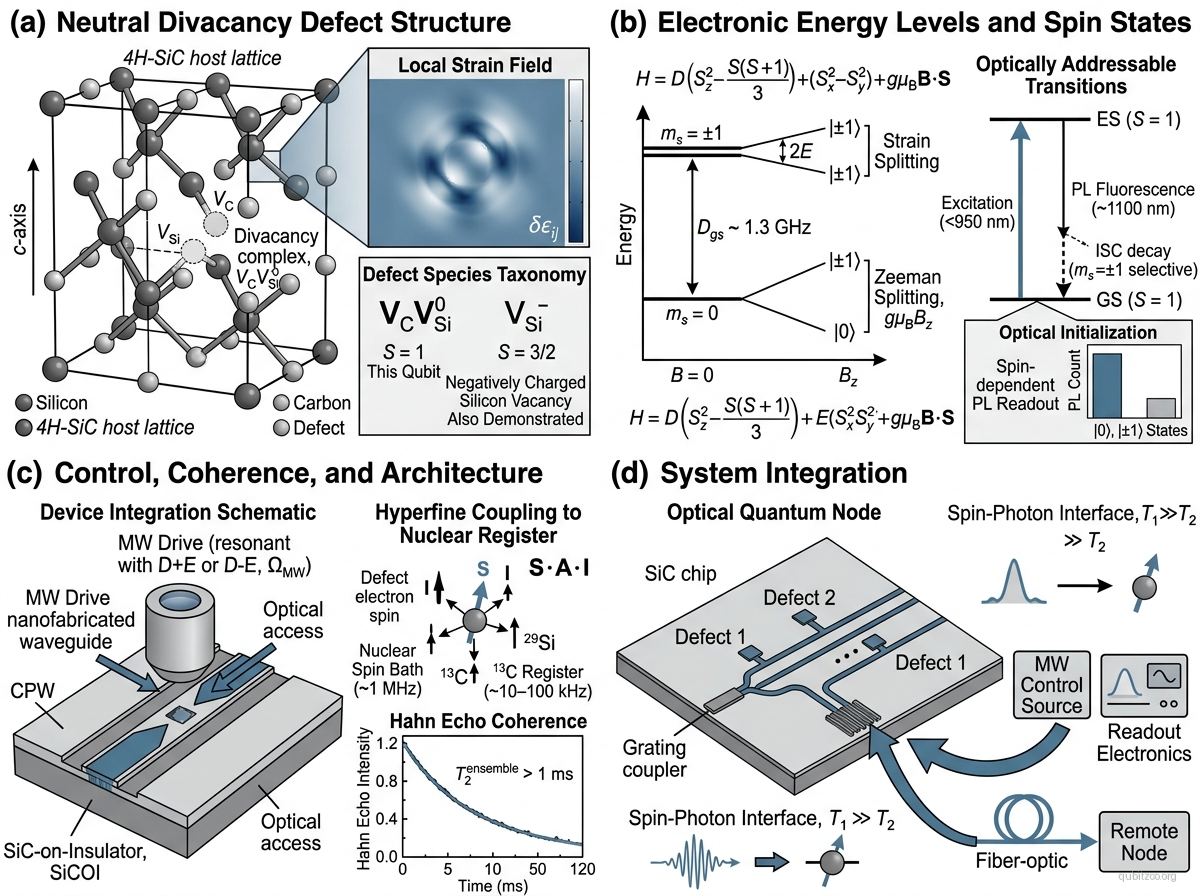
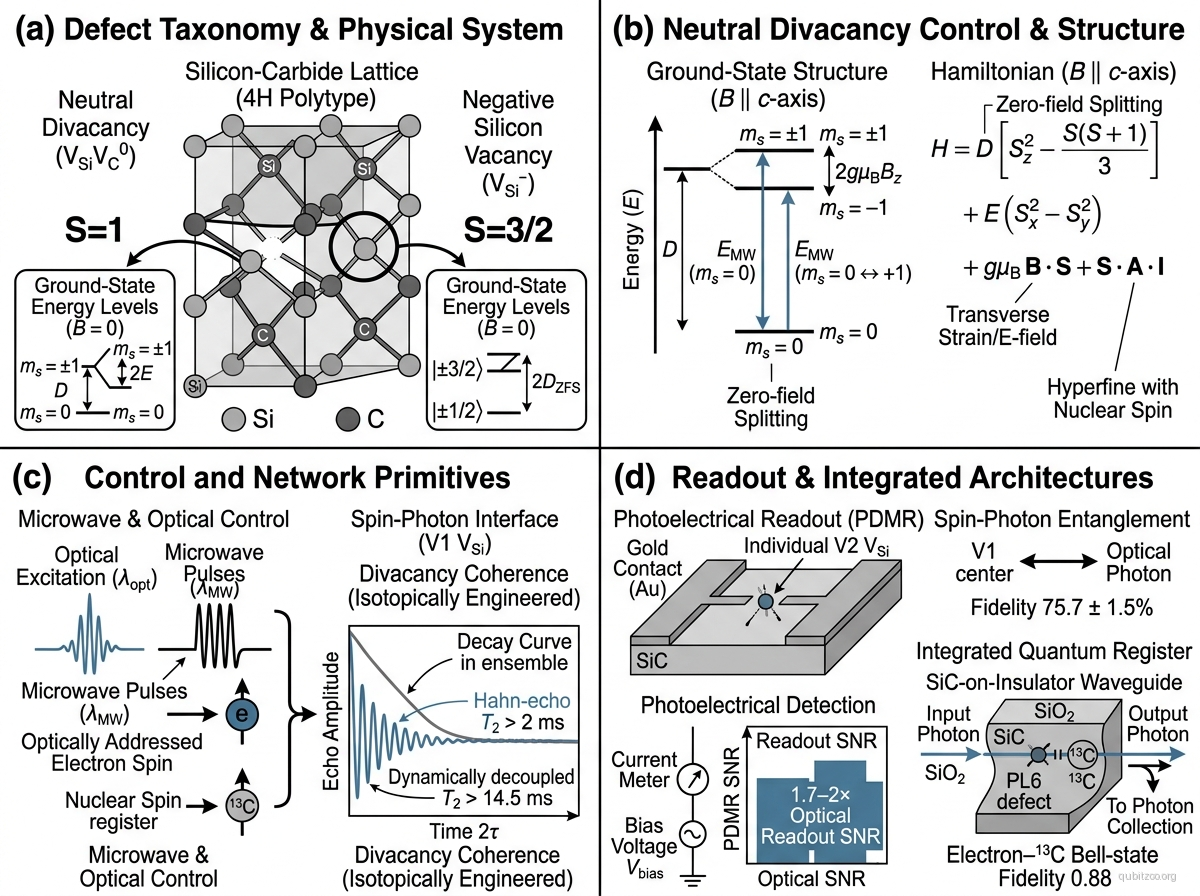
audit: refresh silicon-carbide defect qubit

diff --git a/content/Zoo/silicon-carbide-defect-qubit.md b/content/Zoo/silicon-carbide-defect-qubit.md
@@ -4,19 +4,19 @@ entry_type: qubit
 technology_family: Color Center
 moc_facets: [Spin-Photon]
 status: demonstrated
-figure_reviewed: false
+figure_reviewed: true
 figure_renderer: "nano-banana-2"
 figure_model: "google/gemini-3.1-flash-image-preview"
 figure_provenance: "Figures/silicon-carbide-defect-qubit-figure.provenance.json"
-figure_reviewed_by: "Codex corpus visual/physics audit 2026-08-05"
-figure_reviewed_at: "2026-08-05T12:35:46.070691+00:00"
+figure_reviewed_by: "Codex daily deep audit 2026-08-10"
+figure_reviewed_at: "2026-08-10T14:06:45.468976+00:00"
 first_proposed_year: 2011
 first_demonstrated_year: 2011
 keywords: [silicon carbide, SiC, divacancy, silicon vacancy, defect spin, spin photon, wafer scale]
 influence_score: 0.74
-last_updated: '2026-08-07'
+last_updated: '2026-08-10'
 generated_by: scibok-curation
-verified_by: codex-daily-deep-audit-2026-08-07
+verified_by: codex-daily-deep-audit-2026-08-10
 ---
 
 ## Figure
@@ -47,7 +47,7 @@ with $S=1$, zero-field splitting $D$, transverse strain/electric-field parameter
 
 Room-temperature coherent control of SiC defect spins was demonstrated in 2011. Christle et al. isolated and coherently controlled individual neutral divacancies and measured ensemble Hahn-echo coherence exceeding 1 ms. Nagy et al. demonstrated high-fidelity spin and optical control of single silicon-vacancy centers in 4H-SiC.
 
-The platform has since advanced from isolated-spin control to network-node primitives. Bourassa et al. entangled a divacancy electron spin with a single $^{29}$Si nuclear spin while reporting 99.984(1)% electron-spin control fidelity and $T_2^{\mathrm{DD}}>14.5$ ms. Fang et al. generated V1 silicon-vacancy spin–photon entanglement with fidelity $75.7\pm1.5$%. In 2024, Hu et al. prepared an ambient-condition PL6 electron–$^{13}$C Bell state with fidelity 0.89 and retained 0.88 after integration into a silicon-carbide-on-insulator waveguide. Morioka et al. extended readout in 2026 by demonstrating room-temperature coherent photoelectrical detection of PL3 and PL5–PL7 spins.
+The platform has since advanced from isolated-spin control to network-node primitives. Bourassa et al. entangled a divacancy electron spin with a single $^{29}$Si nuclear spin while reporting 99.984(1)% electron-spin control fidelity and $T_2^{\mathrm{DD}}>14.5$ ms. Fang et al. generated V1 silicon-vacancy spin–photon entanglement with fidelity $75.7\pm1.5$%. In 2024, Hu et al. prepared an ambient-condition PL6 electron–$^{13}$C Bell state with fidelity 0.89 and retained 0.88 after integration into a silicon-carbide-on-insulator waveguide. Nishikawa et al. then demonstrated coherent room-temperature photoelectrical readout of an individual V2 silicon-vacancy spin with 1.7–2 times the signal-to-noise ratio of their optical readout. Morioka et al. broadened the electrical-readout picture in 2026 by demonstrating coherent photoelectrical detection and spectroscopy of PL3 and PL5–PL7 ensembles.
 
 ## Key Metrics
 
@@ -59,6 +59,7 @@ The platform has since advanced from isolated-spin control to network-node primi
 | Spin–photon entanglement fidelity | $75.7\pm1.5$% | V1 silicon vacancy, time-bin photonic qubit | [Fang et al. 2024](https://doi.org/10.1103/PhysRevLett.132.160801) |
 | Electron–nuclear Bell-state fidelity | 0.89 (0.88 after waveguide integration) | PL6 divacancy–$^{13}$C register at ambient conditions | [Hu et al. 2024](https://doi.org/10.1038/s41467-024-54606-2) |
 | Operating regime | Room temperature demonstrated | Coherent defect-spin control | [Koehl et al. 2011](https://doi.org/10.1038/nature10562) |
+| Single-spin photoelectrical readout | 1.7–2× optical-readout SNR | Individual V2 silicon vacancy at room temperature | [Nishikawa et al. 2025](https://doi.org/10.1038/s41467-025-58629-1) |
 | Photoelectrical readout | Room-temperature coherent PDMR | PL3 and PL5–PL7 defects | [Morioka et al. 2026](https://doi.org/10.1103/mdy9-x7lk) |
 | Defect branches | $S=1$ and $S=3/2$ | Divacancy and silicon-vacancy encodings | [Nagy et al. 2019](https://doi.org/10.1038/s41467-019-09873-9) |
 
@@ -78,6 +79,7 @@ The platform has since advanced from isolated-spin control to network-node primi
 - A. Bourassa et al., "Entanglement and control of single nuclear spins in isotopically engineered silicon carbide," [Nature Materials 19, 1319–1325 (2020)](https://doi.org/10.1038/s41563-020-00802-6); [arXiv:2005.07602](https://arxiv.org/abs/2005.07602).
 - R.-Z. Fang et al., "Experimental Generation of Spin-Photon Entanglement in Silicon Carbide," [Physical Review Letters 132, 160801 (2024)](https://doi.org/10.1103/PhysRevLett.132.160801); [arXiv:2311.17455](https://arxiv.org/abs/2311.17455).
 - H. Hu et al., "Room-temperature waveguide integrated quantum register in a semiconductor photonic platform," [Nature Communications 15, 10256 (2024)](https://doi.org/10.1038/s41467-024-54606-2).
+- T. Nishikawa et al., "Coherent photoelectrical readout of single spins in silicon carbide at room temperature," [Nature Communications 16, 3405 (2025)](https://doi.org/10.1038/s41467-025-58629-1).
 - N. Morioka et al., "Photoelectrical detection and characterization of divacancy and PL5–PL7 spins in silicon carbide," [Physical Review B 113, 104426 (2026)](https://doi.org/10.1103/mdy9-x7lk); [arXiv:2512.05283](https://arxiv.org/abs/2512.05283).
 
 ## Linked Papers
@@ -88,6 +90,7 @@ The platform has since advanced from isolated-spin control to network-node primi
 - [[bourassa-2020-sic-nuclear-spin-register]]
 - [[fang-2024-sic-spin-photon-entanglement]]
 - [[hu-2024-sic-waveguide-quantum-register]]
+- [[nishikawa-2025-sic-single-spin-photoelectrical-readout]]
 - [[morioka-2026-sic-photoelectrical-readout]]
 
 ## Evergreen context

diff --git a/content/References/nishikawa-2025-sic-single-spin-photoelectrical-readout.md b/content/References/nishikawa-2025-sic-single-spin-photoelectrical-readout.md
@@ -1,0 +1,19 @@
+---
+title: Coherent photoelectrical readout of single spins in silicon carbide at room temperature
+authors: [Tetsuri Nishikawa, Naoya Morioka, Hiroshi Abe, Koichi Murata, Kazuki Okajima, Takeshi Ohshima, Hidekazu Tsuchida, Norikazu Mizuochi]
+year: 2025
+journal: Nature Communications
+doi: 10.1038/s41467-025-58629-1
+type: reference
+generated_by: scibok-curation
+last_updated: '2026-08-10'
+verification_status: verified
+verified_by: codex-title-page-and-crossref-2026-08-10
+---
+Demonstrated coherent photoelectrical readout of an individual V2 silicon-vacancy spin in 4H-SiC at room temperature, with electrical readout providing 1.7–2 times the signal-to-noise ratio of the optical measurement.
+
+## Links
+- **Journal:** [Nature Communications](https://doi.org/10.1038/s41467-025-58629-1)
+
+## Zoo Links
+- [[silicon-carbide-defect-qubit]]
